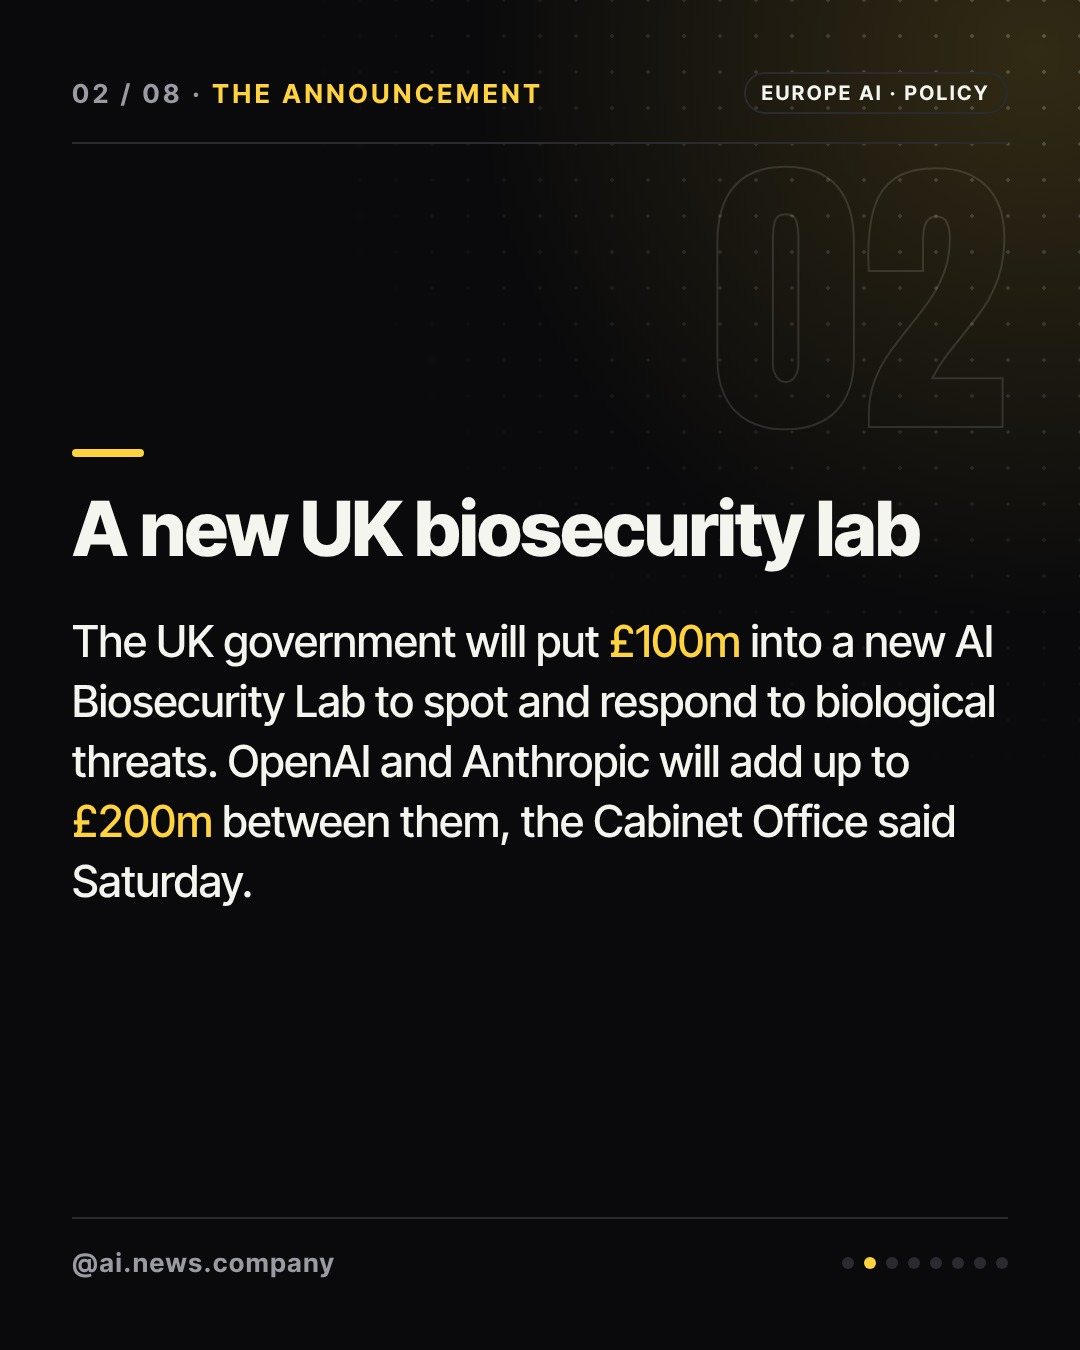
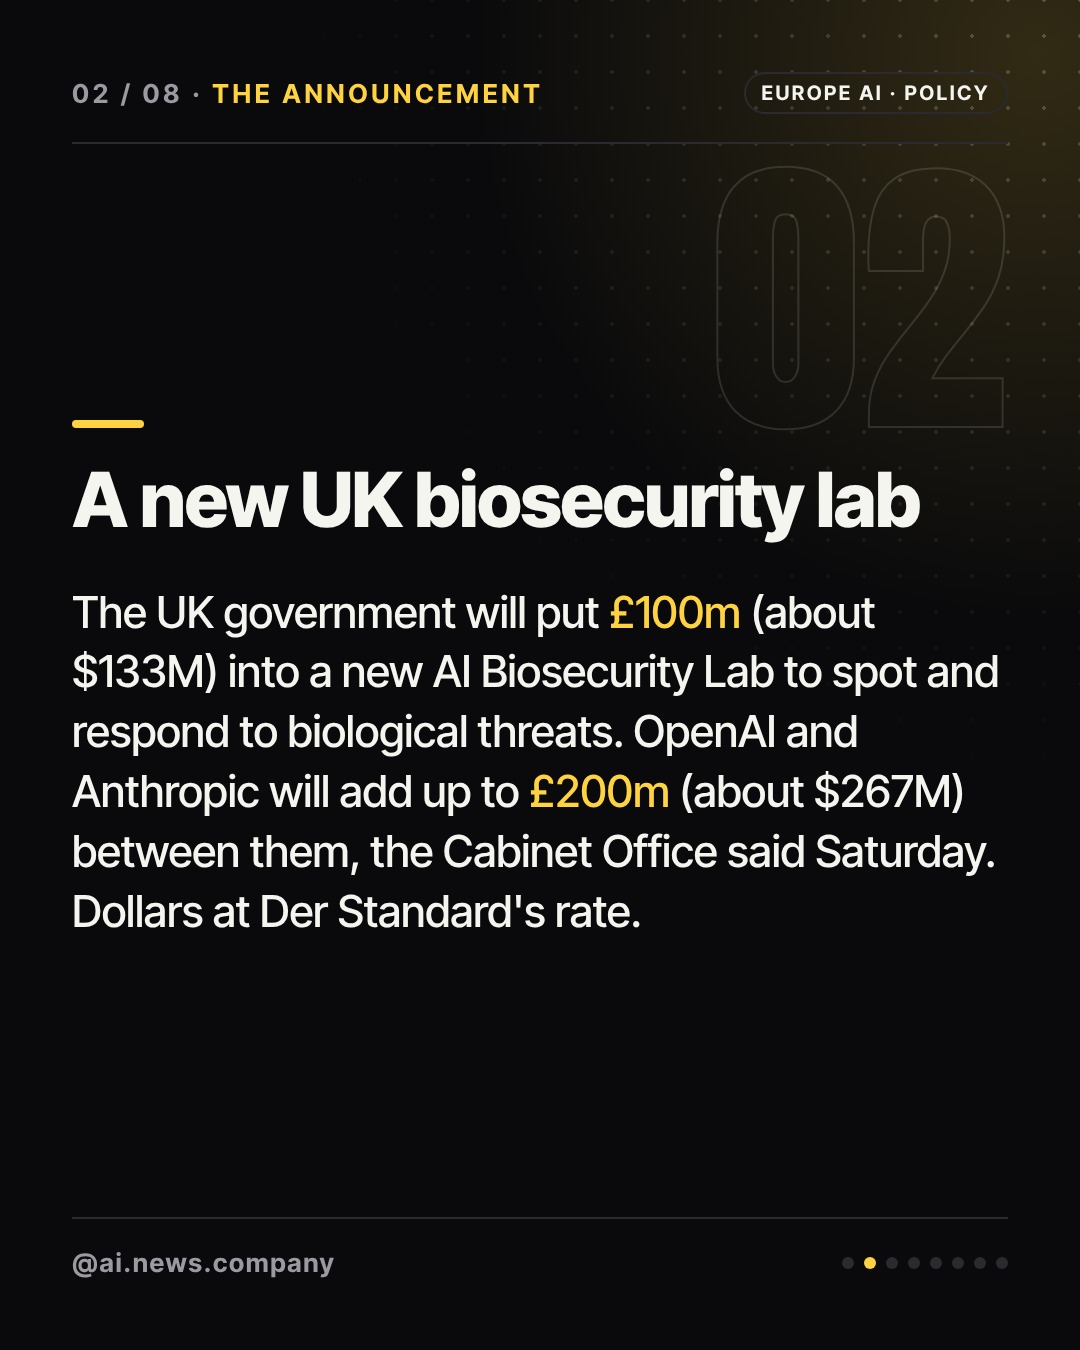
uk-ai-biosecurity-lab: dollar equivalents labeled with Der Standard rate, ready
Claude-Session: https://claude.ai/code/session_01Fn4e52R7xV9qN6ZDo4GDbe

Changed region(s): [[0.0611, 0.3111, 0.9472, 0.6844]]

diff --git a/posts/2026-10-25-uk-ai-biosecurity-lab/review-brand.md b/posts/2026-10-25-uk-ai-biosecurity-lab/review-brand.md
@@ -1,17 +1,11 @@
 PASS
 
-# Brand-safety review: 2026-10-25-uk-ai-biosecurity-lab
+Post: 2026-10-25-uk-ai-biosecurity-lab (brand-safety review, slides 01-08 viewed)
 
-Checks (slides 01-08 viewed):
-- Cover image: AI-generated empty lab, no people, no logos, no readable text (screens are blank). OK.
-- Reference-account copying: none seen; wording is original, sourced from The Next Web and Der Standard. OK.
-- Outlet credit: caption ends with "Source: The Next Web, ... ; Der Standard, ..."; threads_caption credits The Next Web with the title. Slide 8 lists both. OK.
-- Affiliate/referral/tracking/sponsored mentions: none in slides, caption, threads_caption. "Link in bio" is for the weekly digest only. OK.
-- DESIGN.md colors and fonts: ink background, paper text, one accent yellow, Anton cover, Inter Tight body. Accent use on body slides is at most 2 spots. OK.
-- Tone: neutral. "World's first" is attributed to the government in quotes. Nvidia "also not cash" is a factual note, not mockery. Hook "BIOSECURITY BET" is supported: £100M is on slide 2, and slide 6 states unknowns. Not clickbait.
-
-Currency rule: Cover has £100M only (dollars do not fit in 16 chars/line); slide 2 gives £100m (about $133M) and £200m (about $267M). Rate comes from Der Standard (£600m = about $800M) and is disclosed in the caption. Cover acceptable.
-
-Non-blocking notes:
-1. Slide 4 gives Anthropic's "up to £100m" without dollars (OpenAI's £100m has them in the same slide). Add "(about $133M)" if it fits.
-2. Dollar format differs: "$133M" vs "$800 million" on slide 7.
+- Cover image: AI-generated empty lab, no people, no readable text, no recognizable logo. Pass.
+- Reference accounts: wording and layout are original, and the review found nothing copied. Pass.
+- Outlet credit: caption credits The Next Web (title, date) and Der Standard. threads_caption credits The Next Web with the title. Slide 8 lists both sources. Pass.
+- Affiliate or sponsored links: none in slides, caption or threads_caption. Pass.
+- Colors and fonts: ink background, paper text, muted secondary text, a single yellow accent, Anton on the cover and Inter Tight elsewhere, matching DESIGN.md. Pass.
+- Tone: neutral. "World's first" is attributed to the UK government, and the "no director, site or date" slide is factual. The hook (UK's £100M biosecurity bet) is supported by slides 2 to 7. Pass.
+- Currency: the cover shows £100M only because dollars do not fit at 16 chars/line. Slide 2 gives about $133M and $267M with Der Standard's rate stated, and the caption and threads_caption do the same. Accepted, non-blocking.

diff --git a/ops/run-log.md b/ops/run-log.md
@@ -6,7 +6,7 @@ Newest first. Format is in CLAUDE.md ("보고").
 처리 2건 (ready 2) · 실패 0건
 성과: 어제 도달 13 · 팔로워 0 (변화 수집 안 됨) · 링크 클릭 0 · 최고 도달 php-ai-flaws (108)
 결정할 일
-1. 없음 (UK 글은 제이미 결정으로 파운드만 표기. CLAUDE.md의 "현지 통화+달러" 규칙의 예외로 이 글에만 적용)
+1. 없음
 2. 인스타 토큰(IG_USER_ID, IG_ACCESS_TOKEN)이 이 세션에 없어 참고 계정은 morning-scan의 reference.json으로 대체
 3. 커버 이미지 2장은 Higgsfield로 생성해 cover.png로 저장하고 실제 이미지로 렌더함
 자세한 기록
@@ -14,7 +14,7 @@ Newest first. Format is in CLAUDE.md ("보고").
 - 후보 8개 수집 (researcher). 선정: kimi-k3-1-pro(VentureBeat), uk-ai-biosecurity-lab(The Next Web, Der Standard). Grok/GPT 정치 편향 건은 민감해서 제외
 - 예비 주제 3개를 posts/_backlog/에 저장 (SK 5GW 데이터센터, DeepSeek·MiniMax 수출 등록, Block Dessa)
 - kimi-k3-1-pro: 1차 fact/hook 불합격 (DeepSeek 가격 방향, 벤치마크 출처, 훅 6/10) → 수정 후 2차 3명 모두 통과 → ready
-- uk-ai-biosecurity-lab: 1차 3명 불합격 → 2차 hook·brand 통과, fact 불합격 → 규칙대로 blocked → 제이미 요청으로 달러 환산 삭제, Der Standard 날짜는 "undated"로 표기 → fact-checker 재검수 통과 → ready
+- uk-ai-biosecurity-lab: 1차 3명 불합격 → 2차 hook·brand 통과, fact 불합격 → 규칙대로 blocked → 제이미 결정: 달러 환산은 CLAUDE.md 규칙대로 유지하고 Der Standard 환율(£600m≈$800M) 기준임을 슬라이드·캡션에 표기, Der Standard 날짜는 "undated" → fact·brand 재검수 통과 → ready
 - 카테고리 MODELS는 lint 목록에 없어 Kimi 글은 TOOLS 태그 사용
 - 커버 2장 Higgsfield cinematic_studio_2_5로 생성 (4 크레딧; 오늘 합계 4/6)
 - 게시 순서: 폴더 이름 순
